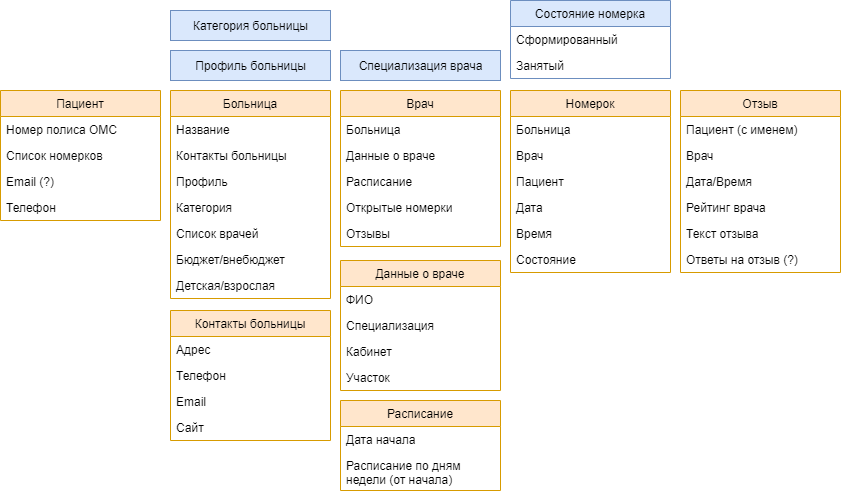
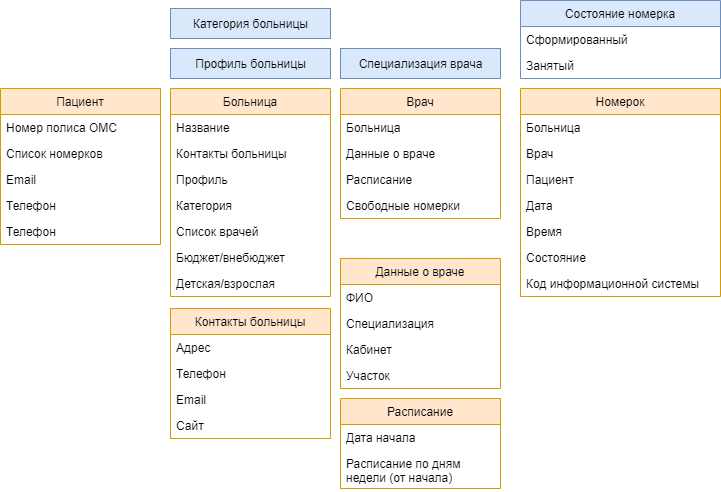
cd updates

Changed region(s): [[0.0, 0.0, 1.0, 1.0]]

diff --git a/index.html b/index.html
@@ -12,7 +12,7 @@
         <a href="#references">Туториалы</a>
         <a href="#project-management">Задания с ОПД</a>
         <a href="#deadlines">Дедлайны</a>
-        Последнее обновление: 10.10.2021
+        Последнее обновление: 11.10.2021
     </div>
 
     <div class="section" id="docs">
@@ -23,7 +23,7 @@
             <p>
                 <a href="https://docs.google.com/spreadsheets/d/1PvagP87hW1B2cWi-CJniDqjs9Zn7zsugyuP6GjMERYM/edit?usp=sharing" target="_blank">Словарь (google sheets) </a>
                 <a href="https://docs.google.com/document/d/1w8GBsson49HSlAhRHPElN1J8RTJ909Ao_XehzmTYq9I/edit?usp=sharing" target="_blank">Спецификация требований (google docs, не закончена)</a>
-                <a href="https://docs.google.com/document/d/1FFl9z9O2f7W6NSMCVPll7ryt-ah3RXMvSoHf35M-NBA/edit?usp=sharing" target="_blank">Календарный план (google docs, не закончен)</a>    
+                <a href="https://docs.google.com/document/d/1FFl9z9O2f7W6NSMCVPll7ryt-ah3RXMvSoHf35M-NBA/edit?usp=sharing" target="_blank">Календарный план (google docs, закончен?)</a>    
             </p>
             <p>
                 <a href="https://docs.google.com/document/d/1lf1Y39DNTTNYpml9tSVvOOrLvjyHZNzatGQGbiA-wiY/edit?usp=sharing" target="_blank">Ответы на вопросы по требованиям/предметной области (google docs)</a>
@@ -45,11 +45,11 @@
 
             <h2>Список сущностей</h2>
             <img src="entities.png">
-            <a href="https://drive.google.com/file/d/1tJX5tZuYmCLjsmD-OU9JQ6V-0C3pxvX9/view?usp=sharing" target="_blank">Исходный файл в формате .drawio (версия от 02.10)</a>
+            <a href="https://drive.google.com/file/d/122Yg1TfY6_T6lA7lMiejR_eILA02DPxu/view?usp=sharing" target="_blank">Исходный файл в формате .drawio (версия от 11.10)</a>
 
-            <h2>Диаграмма классов (не закончена)</h2>
+            <h2>Диаграмма классов (закончена??)</h2>
             <img src="classdiagram.png">
-            <a href="https://drive.google.com/file/d/1tJX5tZuYmCLjsmD-OU9JQ6V-0C3pxvX9/view?usp=sharing" target="_blank">Исходный файл в формате .drawio (версия от 02.10)</a>
+            <a href="https://drive.google.com/file/d/122Yg1TfY6_T6lA7lMiejR_eILA02DPxu/view?usp=sharing" target="_blank">Исходный файл в формате .drawio (версия от 11.10)</a>
 
             <h2>Структурная схема</h2>
             <img src="structure.png">
